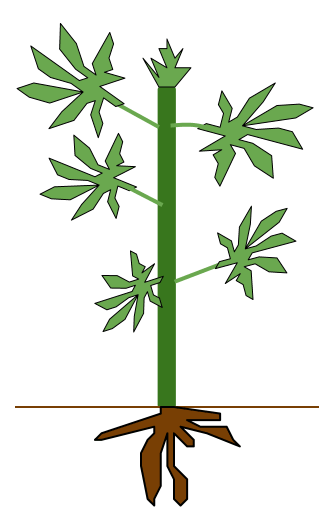
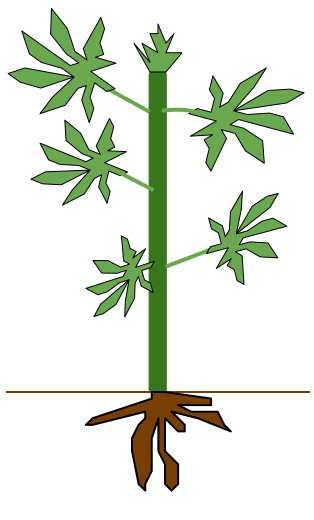
pics

Changed region(s): [[0.0287, 0.0, 0.9745, 0.9846], [0.5159, 0.3692, 0.9172, 0.5846]]

diff --git a/index.html b/index.html
@@ -25,15 +25,20 @@
     </script>
     
     <script type="text/template" id="plant-template">
-      <div class="plant">   
-        <h4><%= name %></h4>
-        <p>Root coloration: <%= rootColor() %></p>
-        <p>Leaf Hairiness: <%= hairiness() %></p>
-        <p>Dry Matter Content: <%= dmy %> </p>
-        <p>Branching Tendency: <%= branching %> </p>
-        <p>Whitefly Resistance: <%= flyResistance() %> </p>
-        <p>Virus Resistance: <%= virusResistance() %> </p>
-        <p>Cyanide Content: <%= cyanide() %></p>
+      <div class="plant clearfix">   
+        <div class="plant-pic">
+          <img src="img/<%= img %>" width="140" />
+        </div>
+        <div class="plant-data">
+          <h4><%= name %></h4>
+          <p>Root coloration: <%= rootColor() %></p>
+          <p>Leaf Hairiness: <%= hairiness() %></p>
+          <p>Root Size: <%= dmy %> </p>
+          <p>Branching Tendency: <%= branching %> </p>
+          <p>Whitefly Resistance: <%= flyResistance() %> </p>
+          <p>Virus Resistance: <%= virusResistance() %> </p>
+          <p>Cyanide Content: <%= cyanide() %></p>
+        </div>
       </div>
     </script>
     

diff --git a/js/plant-cross.js b/js/plant-cross.js
@@ -162,11 +162,13 @@ function Plant(id, opts){
   this.genes = opts.genes || {};
   this.dmy = opts.dmy || 0;
   this.branching = opts.branching || 0;
+  this.img = opts.img || id + '.png';
 }
 
 Plant.prototype.hairiness = function(){
   if (!this._hairiness) {
-    this._hairiness = this.geneScore(genes.mecu, this.genes.mecu);
+    var hairScore = this.geneScore(genes.mecu, this.genes.mecu);
+    this._hairiness = hairScore === 0 ? "none" : (hairScore === 1.5) ? "moderate" : "high";
   }
   return this._hairiness;
 }
@@ -246,7 +248,8 @@ Plant.prototype.crossWith = function(plant2) {
     
     var plant = new Plant(name + '-' + (n+1), {
       name: name,
-      genes: genes
+      genes: genes,
+      img: 'seedling.png'
     });          
     
     // cross the fake genes    

diff --git a/css/style.css b/css/style.css
@@ -498,6 +498,8 @@ ul ul, ul ol, ol ol, ol ul { margin-bottom: 0; }
 li { line-height: 20px; }
 
 section {padding:20px; border-bottom:1px solid #ddd;}
-.plant {float:left; width:200px; border:3px solid white; box-shadow: 0 1px 2px #ccc;padding:5px 10px; margin:10px; cursor:pointer;}
+.plant {float:left; border:3px solid white; box-shadow: 0 1px 3px #666;padding:5px 10px; margin:10px; cursor:pointer;}
+.plant-pic {float:left; margin-right:10px;}
+.plant-data {float:left;}
 .plant.active {border:3px solid purple}
 .instructions {font-size:40px; text-align:center; padding-bottom:200px;}
